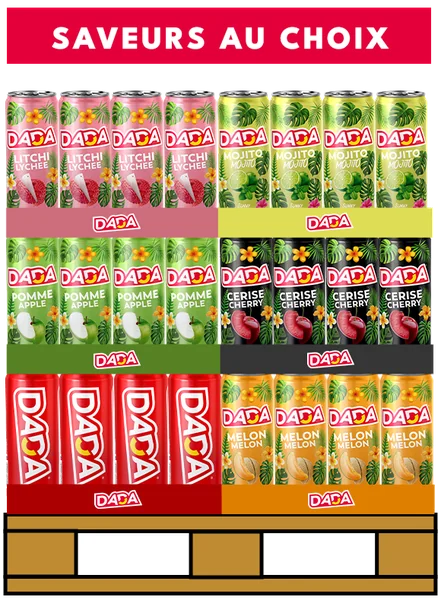
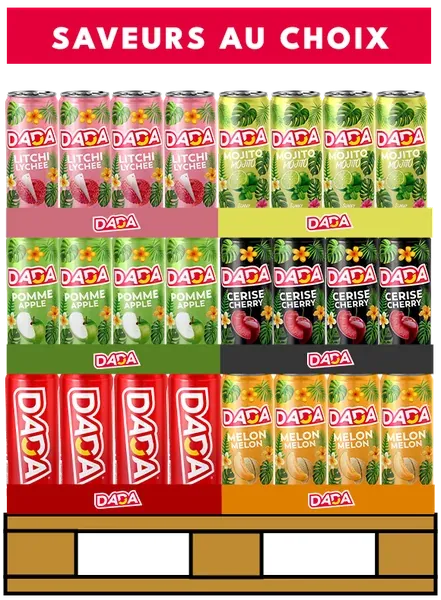
Allègement : étiquettes 2x plus légères (une face dupliquée au chargement), images recompressées, cache navigateur
Claude-Session: https://claude.ai/code/session_01Lp2oVTbavkyW12Q8b8oBE2

diff --git a/lib/can3d/labels.ts b/lib/can3d/labels.ts
@@ -21,6 +21,22 @@ function loadImg(src: string) {
   });
 }
 
+/**
+ * Étiquette dépliée : le fichier ne contient qu'une face (fichier deux fois plus léger) ;
+ * on la duplique pour couvrir tout le tour de la canette (face avant centrée à u = 0,25).
+ */
+function loadFull(src: string) {
+  return loadImg(src).then((im) => {
+    const c = document.createElement("canvas");
+    c.width = im.width * 2;
+    c.height = im.height;
+    const g = c.getContext("2d")!;
+    g.drawImage(im, 0, 0);
+    g.drawImage(im, im.width, 0);
+    return c;
+  });
+}
+
 /** Police des noms de saveur (posée par next/font dans app/layout.tsx) */
 function labelFont() {
   const v = getComputedStyle(document.documentElement).getPropertyValue("--font-montserrat").trim();
@@ -188,13 +204,7 @@ export function getRibbonLabel(f: Flavor) {
   let p = ribbonCache.get(f.slug);
   if (!p) {
     p = f.labelFull
-      ? loadImg(f.labelFull).then((im) => {
-          const c = document.createElement("canvas");
-          c.width = im.width;
-          c.height = im.height;
-          c.getContext("2d")!.drawImage(im, 0, 0);
-          return c;
-        })
+      ? loadFull(f.labelFull)
       : recolored(f, true);
     ribbonCache.set(f.slug, p);
   }
@@ -207,7 +217,7 @@ export function getLabelImage(f: Flavor) {
   if (!p) {
     p =
       f.labelFull
-        ? loadImg(f.labelFull) // design officiel de la canette, déplié d'après la photo produit
+        ? loadFull(f.labelFull) // design officiel de la canette, déplié d'après la photo produit
         : f.slug === "cola-cherry"
         ? loadImg(OFFICIAL)
         : f.cat === "cola" || f.big

diff --git a/next.config.ts b/next.config.ts
@@ -2,6 +2,15 @@ import type { NextConfig } from "next";
 
 const nextConfig: NextConfig = {
   eslint: { ignoreDuringBuilds: true },
+  compress: true,
+  poweredByHeader: false,
+  images: { formats: ["image/avif", "image/webp"] },
+  // les visuels (étiquettes, photos) changent rarement : cache navigateur long
+  async headers() {
+    return [
+      { source: "/:dir(labels|brand|pro|news|story)/:path*", headers: [{ key: "Cache-Control", value: "public, max-age=604800, stale-while-revalidate=86400" }] },
+    ];
+  },
 };
 
 export default nextConfig;
